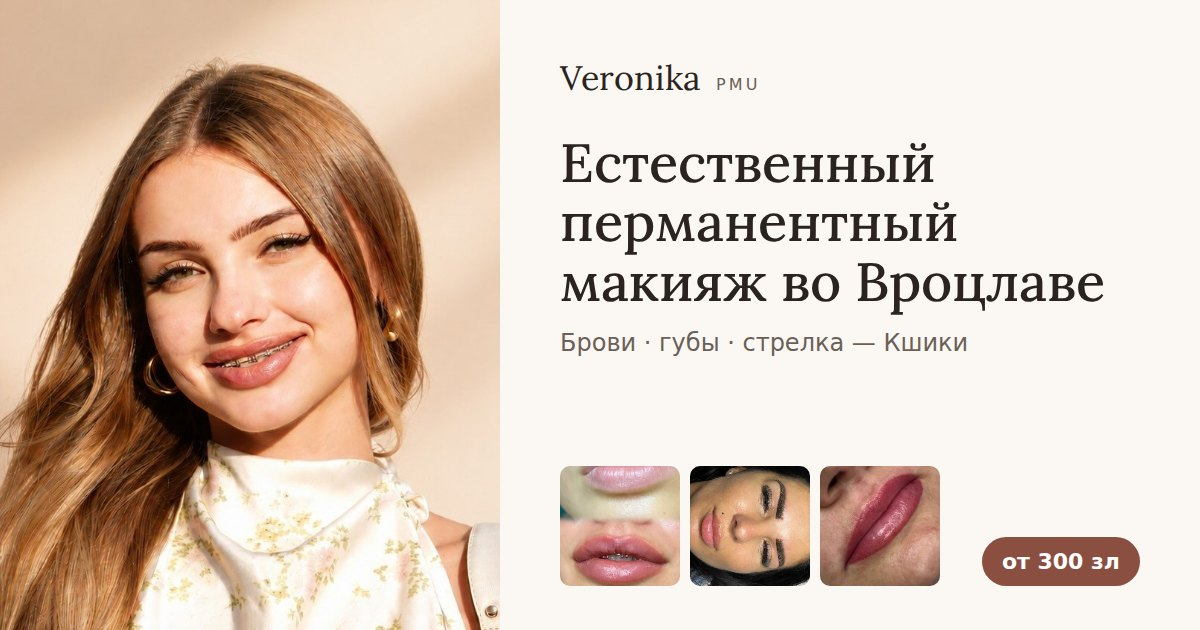
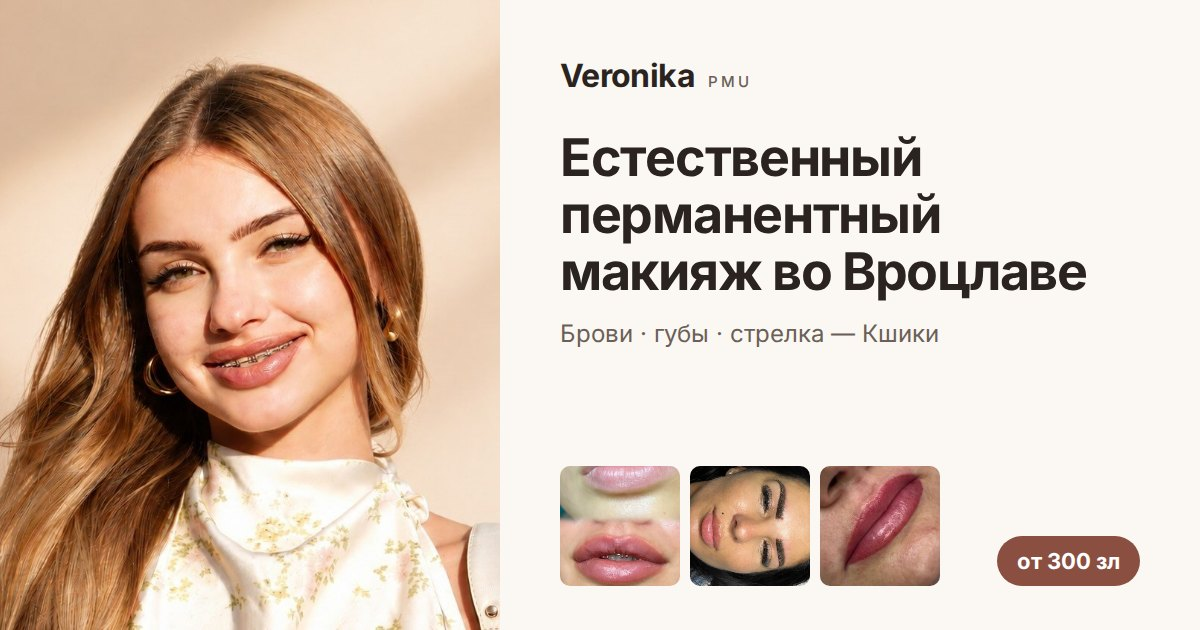
Switch to system (San Francisco) font, tighter type scale and spacing
- Headings and body use the system font stack (SF on Apple, Segoe UI on
  Windows, Roboto on Android), bold headings; Lora removed (no font download)
- Smaller headings, section padding and gaps; hero 'see results' button
  hidden on mobile (gallery follows directly)
- PMU cards: inquiry button on the same row as the price
- Contact: channel list merged into the location block; call/WhatsApp side
  by side on mobile
- OG images regenerated with a sans-serif font
- Mobile home page ~8340 px -> ~7020 px, desktop ~6590 -> ~5570 px

Claude-Session: https://claude.ai/code/session_01STBTzgnGa38st1J2THa1F5

Changed region(s): [[0.4625, 0.2111, 0.925, 0.573], [0.4625, 0.0905, 0.6475, 0.1508], [0.8017, 0.8444, 0.9558, 0.9349]]

diff --git a/src/styles/global.css b/src/styles/global.css
@@ -1,5 +1,3 @@
-@import '@fontsource-variable/lora/index.css';
-
 :root {
   --bg: #fbf8f4;
   --surface: #f3ede6;
@@ -11,14 +9,18 @@
   --accent-ink: #ffffff;
   --accent-soft: #f2e4de;
 
-  --font-display: 'Lora Variable', 'Iowan Old Style', Georgia, serif;
-  --font-body: system-ui, -apple-system, 'Segoe UI', Roboto, 'Helvetica Neue', Arial, sans-serif;
+  /* Systemowy krój: San Francisco na iPhone/Mac, Segoe UI na Windows, Roboto na Androidzie.
+     Zero pobierania czcionek → szybsze ładowanie. */
+  --font-body: -apple-system, BlinkMacSystemFont, 'SF Pro Text', system-ui, 'Segoe UI', Roboto, 'Helvetica Neue', Arial,
+    sans-serif;
+  --font-display: -apple-system, BlinkMacSystemFont, 'SF Pro Display', system-ui, 'Segoe UI', Roboto, 'Helvetica Neue',
+    Arial, sans-serif;
 
   --radius: 14px;
   --radius-sm: 8px;
   --gutter: 16px;
   --max: 1120px;
-  --section-y: clamp(56px, 9vw, 104px);
+  --section-y: clamp(36px, 6vw, 72px);
   --mobile-cta-h: 72px;
 }
 
@@ -50,8 +52,8 @@ body {
   background: var(--bg);
   color: var(--ink);
   font-family: var(--font-body);
-  font-size: 1.0625rem;
-  line-height: 1.6;
+  font-size: 1rem;
+  line-height: 1.55;
   text-rendering: optimizeLegibility;
   -webkit-font-smoothing: antialiased;
   padding-bottom: var(--mobile-cta-h);
@@ -72,23 +74,24 @@ h1,
 h2,
 h3 {
   font-family: var(--font-display);
-  font-weight: 500;
+  font-weight: 700;
   line-height: 1.15;
-  letter-spacing: -0.01em;
-  margin: 0 0 0.5em;
+  letter-spacing: -0.022em;
+  margin: 0 0 0.45em;
   text-wrap: balance;
   /* Długie słowa (np. „конфиденциальности”) na wąskich ekranach */
   overflow-wrap: break-word;
   hyphens: auto;
 }
 h1 {
-  font-size: clamp(2.1rem, 7vw, 3.6rem);
+  font-size: clamp(1.85rem, 6.2vw, 2.9rem);
 }
 h2 {
-  font-size: clamp(1.75rem, 5vw, 2.6rem);
+  font-size: clamp(1.45rem, 4.2vw, 2.05rem);
 }
 h3 {
-  font-size: 1.3rem;
+  font-size: 1.1rem;
+  letter-spacing: -0.01em;
 }
 p {
   margin: 0 0 1em;
@@ -126,11 +129,14 @@ a {
 }
 .section-head {
   max-width: 640px;
-  margin-bottom: clamp(28px, 5vw, 48px);
+  margin-bottom: clamp(18px, 3vw, 32px);
 }
 .lead {
   color: var(--muted);
-  font-size: 1.125rem;
+  font-size: 1.0625rem;
+}
+.section-head .lead {
+  margin-bottom: 0;
 }
 
 .eyebrow {
@@ -148,8 +154,8 @@ a {
   align-items: center;
   justify-content: center;
   gap: 10px;
-  min-height: 52px;
-  padding: 0 24px;
+  min-height: 48px;
+  padding: 0 22px;
   border-radius: 999px;
   font: inherit;
   font-weight: 600;

diff --git a/scripts/og-template.html b/scripts/og-template.html
@@ -1,16 +1,16 @@
 <!doctype html>
 <html><head><meta charset="utf-8">
 <style>
-@font-face { font-family: Lora; src: url('../node_modules/@fontsource-variable/lora/files/lora-latin-ext-wght-normal.woff2') format('woff2'); unicode-range: U+0100-024F; }
-@font-face { font-family: Lora; src: url('../node_modules/@fontsource-variable/lora/files/lora-latin-wght-normal.woff2') format('woff2'); unicode-range: U+0000-00FF; }
-@font-face { font-family: Lora; src: url('../node_modules/@fontsource-variable/lora/files/lora-cyrillic-wght-normal.woff2') format('woff2'); unicode-range: U+0400-04FF; }
+@font-face { font-family: Inter; font-weight: 100 900; src: url('../node_modules/@fontsource-variable/inter/files/inter-latin-wght-normal.woff2') format('woff2'); unicode-range: U+0000-00FF, U+2000-206F; }
+@font-face { font-family: Inter; font-weight: 100 900; src: url('../node_modules/@fontsource-variable/inter/files/inter-latin-ext-wght-normal.woff2') format('woff2'); unicode-range: U+0100-024F; }
+@font-face { font-family: Inter; font-weight: 100 900; src: url('../node_modules/@fontsource-variable/inter/files/inter-cyrillic-wght-normal.woff2') format('woff2'); unicode-range: U+0400-04FF; }
 * { box-sizing: border-box; margin: 0; }
-body { width: 1200px; height: 630px; background: #fbf8f4; color: #2a2320; font-family: system-ui, sans-serif; display: flex; overflow: hidden; }
+body { width: 1200px; height: 630px; background: #fbf8f4; color: #2a2320; font-family: Inter, system-ui, sans-serif; display: flex; overflow: hidden; }
 .photo { width: 500px; height: 630px; object-fit: cover; object-position: 50% 30%; }
 .right { flex: 1; padding: 56px 60px 44px; display: flex; flex-direction: column; }
-.brand { font-family: Lora; font-size: 34px; }
-.brand span { font-family: system-ui; font-size: 16px; letter-spacing: .2em; color: #6b5f58; margin-left: 6px; }
-h1 { font-family: Lora; font-weight: 500; font-size: 54px; line-height: 1.1; margin-top: 34px; }
+.brand { font-weight: 700; font-size: 32px; letter-spacing: -0.02em; }
+.brand span { font-weight: 500; font-size: 15px; letter-spacing: .2em; color: #6b5f58; margin-left: 6px; }
+h1 { font-weight: 700; font-size: 52px; line-height: 1.1; letter-spacing: -0.025em; margin-top: 34px; }
 .sub { font-size: 24px; color: #6b5f58; margin-top: 18px; }
 .works { display: flex; gap: 10px; margin-top: auto; }
 .works img { width: 120px; height: 120px; object-fit: cover; border-radius: 10px; }

diff --git a/README.md b/README.md
@@ -2,7 +2,7 @@
 
 Jednostronicowa strona dla Veronika PMU (makijaż permanentny, Wrocław). Cel: **odwiedzająca → zaufanie → zainteresowanie → kontakt**.
 
-Stack: [Astro](https://astro.build) (statyczny HTML, prawie zero JS), optymalizacja zdjęć przez `sharp` (AVIF/WebP, kilka rozmiarów, lazy loading), czcionka Lora hostowana lokalnie (bez Google Fonts → bez problemów z RODO).
+Stack: [Astro](https://astro.build) (statyczny HTML, prawie zero JS), optymalizacja zdjęć przez `sharp` (AVIF/WebP, kilka rozmiarów, lazy loading), systemowa czcionka (San Francisco na Apple, Segoe UI na Windows, Roboto na Androidzie) — bez pobierania fontów.
 
 ## Uruchomienie
 
